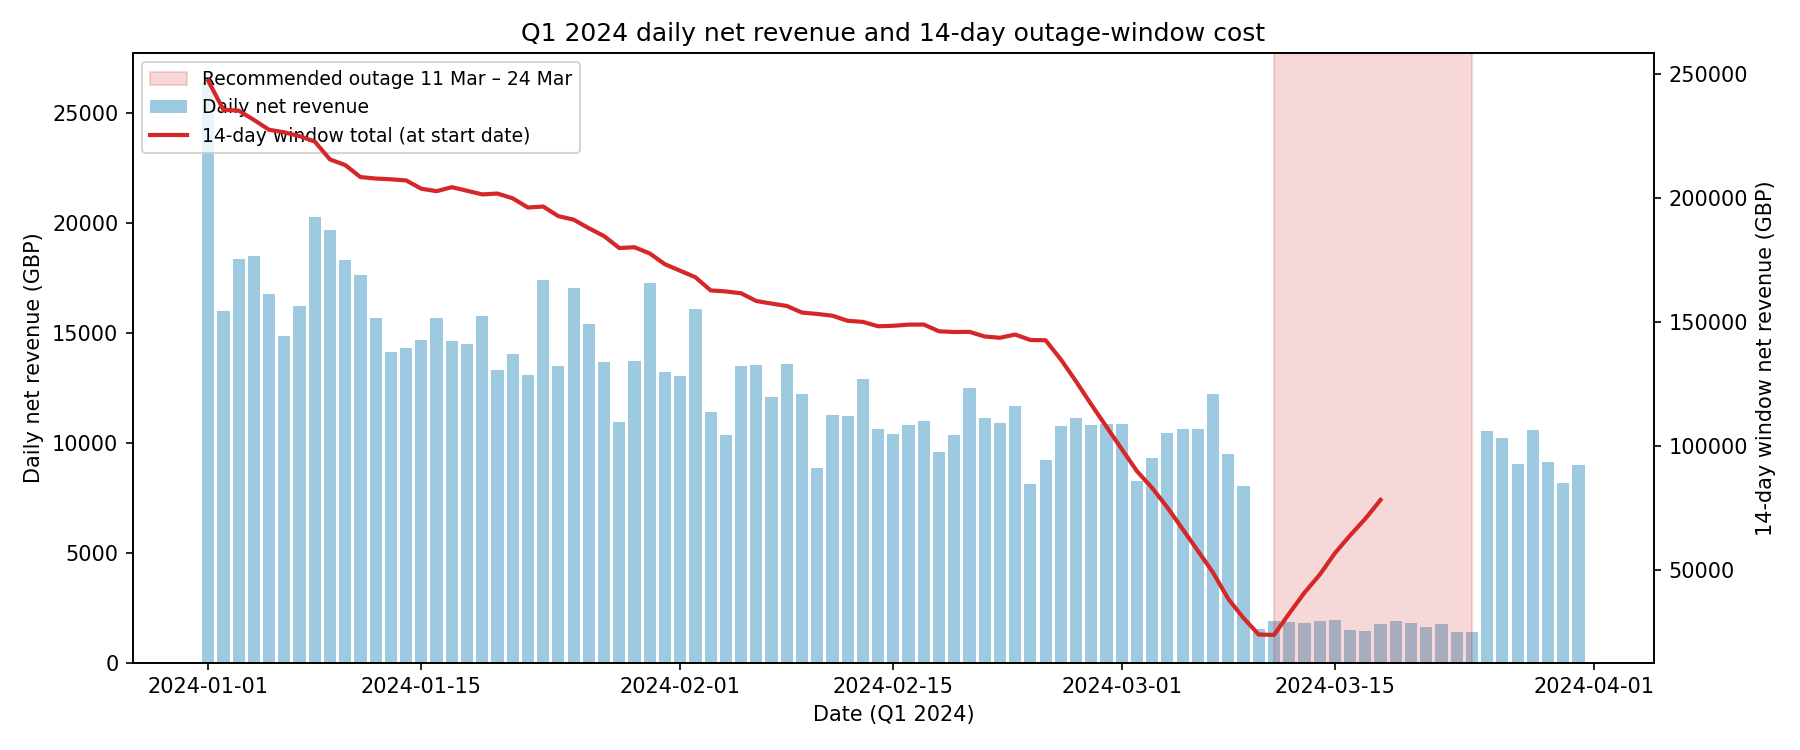
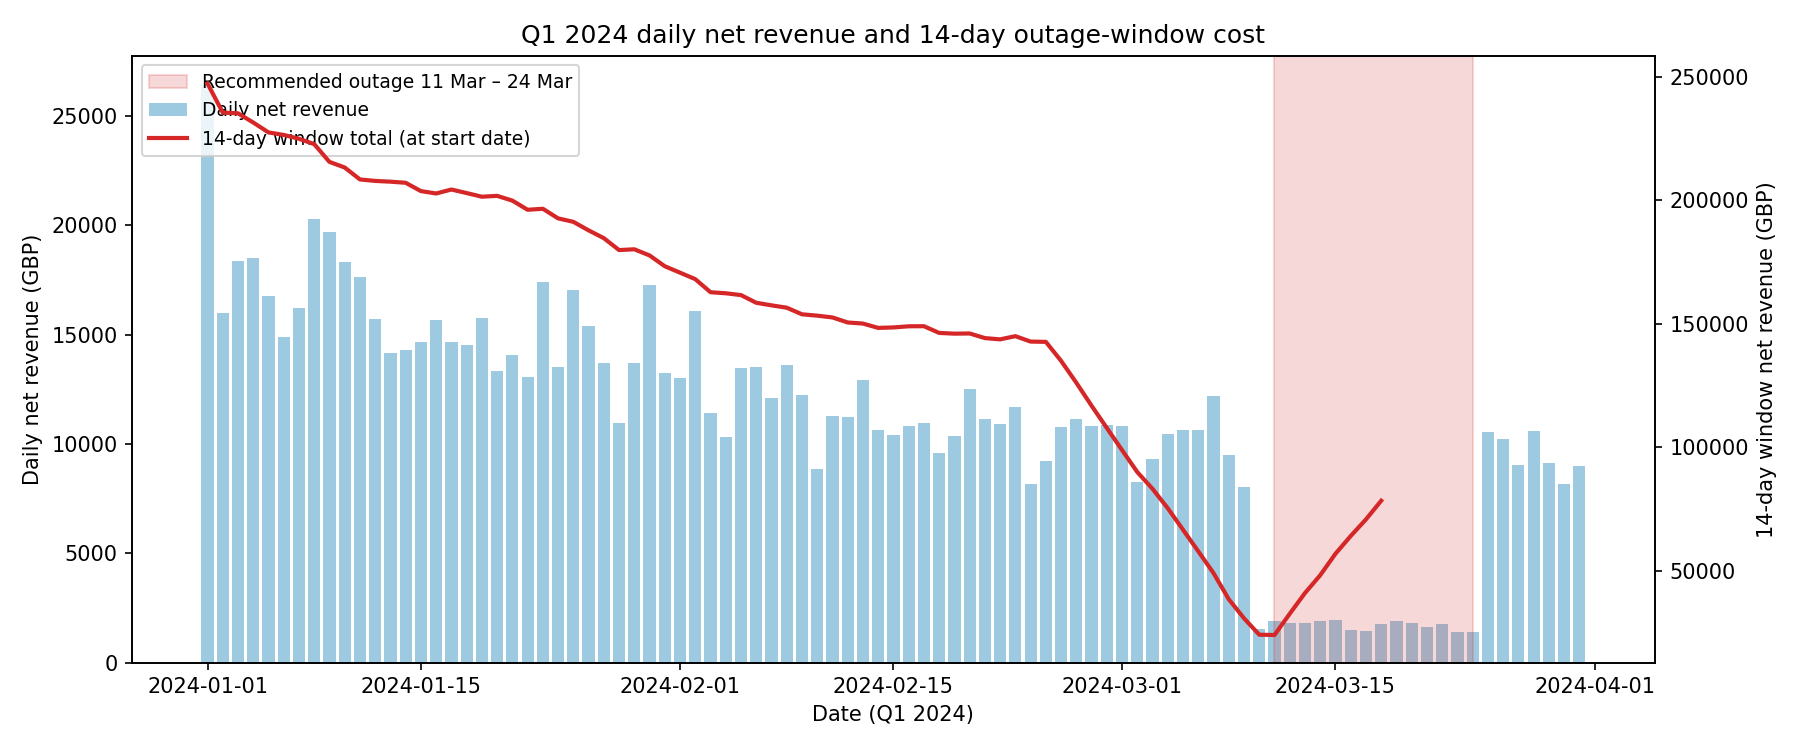
fix: correct energy-balance reasoning and clarify Part 1 docs
- Reconstruct stored energy from SOC so the discharged/charged imbalance
  is explained (battery ends ~10% vs starting ~79%), then flag that the
  implied round-trip loss is still <= 0, which is physically impossible
  and points to synthetic data.
- Note SQL insights span Jan-Jun while the outage window is Q1-only by
  design; add the 24 Mar lowest-day / window-end coherence cross-check.
- Rewrite "What I'd do with more time" in plain language.
- Remove em dashes from README, report, and an analysis.py docstring.

diff --git a/analysis.py b/analysis.py
@@ -39,6 +39,7 @@ QUERIES_PATH = Path("queries.sql")
 CHART_PATH = Path("outputs/part1_outage_window.png")
 
 INTERVAL_HOURS = 0.25  # data is on a 15-minute grid
+CAPACITY_MWH = 200  # 200 MWh site, per the assignment spec
 OUTAGE_DAYS = 14
 QUARTER_START = pd.Timestamp("2024-01-01")
 QUARTER_END = pd.Timestamp("2024-03-31")  # window must end on/before this day
@@ -82,13 +83,30 @@ def load_data(path: Path) -> pd.DataFrame:
 
 
 def energy_summary(df: pd.DataFrame) -> dict[str, float]:
-    """Total energy discharged and charged over the full dataset (MWh)."""
+    """Total energy discharged and charged over the full dataset (MWh).
+
+    Also reconstructs the change in stored energy from SOC so the raw
+    discharged/charged imbalance can be sanity-checked against physics.
+    """
     discharged = df.loc[df["energy_mwh"] > 0, "energy_mwh"].sum()
     charged = -df.loc[df["energy_mwh"] < 0, "energy_mwh"].sum()
+    soc_start = df["SOC (%)"].iloc[0]
+    soc_end = df["SOC (%)"].iloc[-1]
+    # Energy released from storage over the period (positive means the
+    # battery ended emptier than it started).
+    stored_released = CAPACITY_MWH * (soc_start - soc_end) / 100
+    # Energy balance: charged + stored_released = discharged + losses, so a
+    # real battery must have losses > 0. A near-zero or negative implied
+    # loss is physically impossible.
+    implied_loss = charged + stored_released - discharged
     return {
         "discharged_mwh": discharged,
         "charged_mwh": charged,
         "ratio_discharged_over_charged": discharged / charged,
+        "soc_start": soc_start,
+        "soc_end": soc_end,
+        "stored_released_mwh": stored_released,
+        "implied_loss_mwh": implied_loss,
     }
 
 
@@ -97,7 +115,7 @@ def revenue_by_mode(df: pd.DataFrame) -> pd.DataFrame:
 
     A mode's daily revenue is summed per calendar date, then averaged
     over the dates on which that mode was active (not all calendar
-    days) — this answers "how much does a day of running this mode
+    days), which answers "how much does a day of running this mode
     earn", which is the operationally meaningful rate.
     """
     gross = df["revenue_gbp"].clip(lower=0)  # discharge income only
@@ -230,9 +248,20 @@ def main() -> None:
     print(f"Total charged:    {energy['charged_mwh']:>12,.1f} MWh")
     ratio = energy["ratio_discharged_over_charged"]
     print(f"Discharged/charged ratio: {ratio:.3f}")
-    if ratio > 1:
-        print("  NOTE: ratio > 1 is physically implausible for a real battery "
-              "(round-trip losses mean energy out < energy in); flags this as "
+    # The raw ratio > 1 looks impossible at first, but the battery ends much
+    # emptier than it starts, releasing stored energy that closes most of the
+    # gap. What is left after that SOC correction is the real tell.
+    gap = energy["discharged_mwh"] - energy["charged_mwh"]
+    print(f"SOC {energy['soc_start']:.1f}% -> {energy['soc_end']:.1f}% releases "
+          f"{energy['stored_released_mwh']:,.0f} MWh of stored energy, "
+          f"explaining the {gap:,.0f} MWh discharge/charge gap.")
+    print(f"Implied round-trip loss after that correction: "
+          f"{energy['implied_loss_mwh']:,.1f} MWh")
+    if energy["implied_loss_mwh"] <= 0:
+        print("  NOTE: a real battery ALWAYS loses some energy on every charge "
+              "and discharge (round-trip efficiency is typically 85-92%), so the "
+              "implied loss must be clearly positive. A near-zero or negative "
+              "loss is physically impossible, so this is almost certainly "
               "synthetic/simulated data.")
 
     print("\n-- Step 1b: Average daily revenue per mode (GBP/day) " + "-" * 16)

diff --git a/README.md b/README.md
@@ -1,4 +1,4 @@
-# Tesla AI/Data Engineer Intern — Technical Assignment
+# Tesla AI/Data Engineer Intern, Technical Assignment
 
 BESS revenue analysis (Part 1) and, to follow, fleet log intelligence with an
 agentic harness (Part 2).
@@ -13,8 +13,8 @@ python analysis.py
 Requires Python 3.10+. The script prints the full analysis to the console and writes
 two things to `outputs/`:
 
-- `part1_outage_window.png` — the chart used in the report
-- `bess.db` — a SQLite database you can run `queries.sql` against directly
+- `part1_outage_window.png`, the chart used in the report
+- `bess.db`, a SQLite database you can run `queries.sql` against directly
   (`sqlite3 outputs/bess.db < queries.sql`)
 
 The headline result and chart are in [report.md](report.md).
@@ -24,45 +24,67 @@ The headline result and chart are in [report.md](report.md).
 The data is 15-minute readings, so I turn each row's power into energy with
 `energy = Power × 0.25h`, then into money with `× Market Price`. That gives a signed
 **net** revenue per row: discharging earns, charging costs. I use net throughout
-because it's what actually matters for the outage question — a site that's offline
+because it's what actually matters for the outage question. A site that's offline
 loses its discharge income but also avoids paying to charge. (Gross discharge-only
 value is reported alongside so the choice is transparent.) Under net, Frequency
 Regulation comes out slightly negative, which is expected: the dataset only has energy
 prices, and in real life FR is paid mostly through availability fees that aren't here.
 
 For the outage window I build a daily net-revenue series, take a rolling 14-day sum
-sliding one day at a time, keep every window fully inside 1 Jan–31 Mar, and pick the
+sliding one day at a time, keep every window fully inside 1 Jan to 31 Mar, and pick the
 cheapest. The result is double-checked two ways: a brute-force scan over all 78
 candidate windows, and an assertion that the pandas and SQL revenue totals match.
 
 The three SQL insights (monthly revenue, best/worst day, average Peak Shaving price)
-live in `queries.sql` and run against SQLite — standard library, no extra
-dependencies, and the file stays plain and runnable on its own.
+live in `queries.sql` and run against SQLite, which is standard library, needs no extra
+dependencies, and keeps the file plain and runnable on its own. The dataset covers
+January to June 2024, so these monthly and daily figures span all six months, while the
+14-day outage window is deliberately restricted to Q1 (1 Jan to 31 Mar) as the scenario
+requires. As a cross-check, the lowest-revenue day the SQL finds (24 March) is exactly
+the last day of the recommended 11 to 24 March outage window.
 
 `analysis.py` also validates the input on load (columns present, no nulls, no gaps in
 the 15-minute grid) and fails fast with a clear message if something's off.
 
+## A note on the energy totals (is the data real?)
+
+The battery discharges about 139 MWh more than it charges, which at first looks
+impossible: you can't get more energy out than you put in. The explanation is SOC. The
+site starts around 79% full and ends around 10% full, so it releases roughly 137 MWh of
+previously stored energy, and that almost exactly closes the 139 MWh gap.
+
+What's left after that correction is the real tell. Once you account for the stored
+energy, the implied round-trip loss is essentially zero. A real battery **always** loses
+some energy on every charge and discharge (round-trip efficiency is typically 85 to
+92%), so a near-zero or negative loss is physically impossible. That strongly suggests
+the dataset is synthetic. It doesn't change the revenue analysis, but it's worth stating.
+
 ## Assumptions
 
-- All energy settles at the given market price — no FR availability fees, network
+- All energy settles at the given market price, with no FR availability fees, network
   charges, or degradation costs, since none are in the data.
 - Positive power = discharge, negative = charge (per the spec).
 - The outage is whole calendar days, scheduled fully inside Q1 2024.
 
 One thing worth being upfront about: the window is chosen with full hindsight over the
 whole quarter's prices. In reality you'd have to commit to a maintenance date in
-advance, before those prices are known — so a real deployment would need a price
+advance, before those prices are known, so a real deployment would need a price
 forecast and would carry the risk of that forecast being wrong.
 
 ## What I'd do with more time
 
-- Forecast prices for the actual outage period instead of leaning on realized history.
-- Add FR availability revenue if the contract terms were available, so that mode's
-  economics are complete.
-- Use the two columns I left untouched: **SOC** to sanity-check the energy accounting
-  (does the change in SOC over an interval line up with the integrated power?) and to
-  look at cycling depth as an early degradation signal; and the **Frequency Regulation
-  Signal** compared against dispatched power during FR mode, to measure how closely the
-  battery actually tracks the grid — a service-quality view, not just a revenue one.
+- **Forecast the prices instead of using hindsight.** Right now I pick the cheapest
+  window because I can already see that March was cheap. In real life you have to choose
+  the maintenance date *before* you know future prices, so you'd need a price forecast
+  and accept that it might be wrong.
+- **Add the missing Frequency Regulation income.** FR shows up as slightly money-losing
+  (about -£80/day) only because this dataset has energy prices but not the availability
+  payments that FR actually earns most of its money from. With those contract numbers,
+  that mode would look profitable.
+- **Use the two columns I left untouched (SOC and the FR Signal).** I'd use SOC to
+  double-check the energy maths (does the change in SOC over an interval match the power
+  flowing in and out?) and to estimate battery wear from how hard it cycles. I'd compare
+  the FR Signal against the actual power output to see how closely the battery follows
+  the grid, which is a quality measure rather than a money one.
 
-## Part 2 — Fleet log intelligence (to follow)
+## Part 2, Fleet log intelligence (to follow)

diff --git a/report.md b/report.md
@@ -1,4 +1,4 @@
-# Part 1 — Maintenance Outage Recommendation
+# Part 1, Maintenance Outage Recommendation
 
 **Schedule the 14-day outage for 11–24 March 2024.**
 
@@ -6,11 +6,12 @@ Of every 14-day window in Q1, this one costs the least to be offline for: about
 **£24k** of net revenue, versus roughly £150k for an average window and £247k for the
 worst (early January). Picking it saves around £126k over scheduling the outage blind.
 
-The reason is simply that March is the cheap part of the quarter — prices average
-£33/MWh in March against £72/MWh in January — so the battery earns very little during
+The reason is simply that March is the cheap part of the quarter (prices average
+£33/MWh in March against £72/MWh in January), so the battery earns very little during
 that fortnight anyway. The chart below shows daily net revenue (bars) and the running
 14-day total (line); the shaded band is the recommended window, sitting right at the
-bottom of the curve.
+bottom of the curve. As an independent check, the lowest-revenue single day in the whole
+dataset (24 March) falls on the last day of this window.
 
 ![Recommended outage window](outputs/part1_outage_window.png)
 